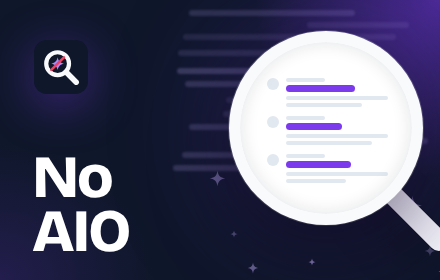
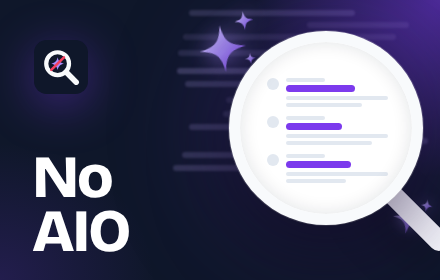
Promo tiles: destellos genéricos de IA alrededor de la lupa
Claude-Session: https://claude.ai/code/session_014NuHJHxpdZbSw9ow7VeDFp

diff --git a/scripts/render-store.py b/scripts/render-store.py
@@ -332,16 +332,38 @@ def lens(cx, cy, r, ring, handle_len, results, scale=1.0):
   <div style="position:absolute;inset:0;border-radius:50%;box-shadow:inset 0 0 {int(30*scale)}px rgba(15,23,42,.12)"></div>
 </div>"""
 
+def star_path(cx, cy, r):
+    k1, k2 = 0.12, 0.28
+    return (f"M{cx} {cy-r} C{cx+r*k1} {cy-r*k2} {cx+r*k2} {cy-r*k1} {cx+r} {cy} "
+            f"C{cx+r*k2} {cy+r*k1} {cx+r*k1} {cy+r*k2} {cx} {cy+r} "
+            f"C{cx-r*k1} {cy+r*k2} {cx-r*k2} {cy+r*k1} {cx-r} {cy} "
+            f"C{cx-r*k2} {cy-r*k1} {cx-r*k1} {cy-r*k2} {cx} {cy-r}Z")
+
+def ai_cluster(x, y, size, opacity=1.0, rot=0, uid="g"):
+    """Símbolo genérico de IA: un destello grande y dos chicos, con degradado y brillo."""
+    return f"""<svg class="abs" style="left:{x}px;top:{y}px;opacity:{opacity};transform:rotate({rot}deg);filter:drop-shadow(0 0 {size*0.18:.0f}px rgba(167,139,250,.75))"
+ width="{size}" height="{size}" viewBox="0 0 100 100">
+<defs><linearGradient id="{uid}" x1="0" y1="0" x2="1" y2="1"><stop offset="0" stop-color="#DDD6FE"/><stop offset=".55" stop-color="#A78BFA"/><stop offset="1" stop-color="#7C3AED"/></linearGradient></defs>
+<path d="{star_path(42, 58, 38)}" fill="url(#{uid})"/>
+<path d="{star_path(82, 18, 15)}" fill="url(#{uid})"/>
+<path d="{star_path(84, 80, 9)}" fill="url(#{uid})"/></svg>"""
+
 def small_tile_uni():
     return f"""<div class="abs glow" style="inset:0"></div>
-{noise(170, 440, 10, 270, 12, 10, seed=7, scale=.7)}
+{noise(170, 440, 10, 270, 12, 0, seed=7, scale=.7)}
+{ai_cluster(196, 12, 62, .9, -8, "s1")}
+{ai_cluster(392, 196, 40, .75, 10, "s2")}
 {lens(326, 128, 86, 11, 92, [(64, 70), (52, 80), (60, 56)], scale=.62)}
 <div class="abs" style="left:34px;top:40px;width:54px;height:54px;filter:drop-shadow(0 10px 24px rgba(124,58,237,.45))">{ICON}</div>
 <div class="abs word" style="left:32px;top:150px;font-size:60px">No<br>AIO</div>"""
 
 def marquee_uni():
     return f"""<div class="abs glow grid" style="inset:0"></div>
-{noise(600, 1400, 20, 540, 22, 22, seed=11)}
+{noise(600, 1400, 20, 540, 22, 0, seed=11)}
+{ai_cluster(690, 60, 120, .95, -10, "m1")}
+{ai_cluster(1230, 40, 96, .8, 8, "m2")}
+{ai_cluster(1240, 330, 70, .6, -6, "m3")}
+{ai_cluster(700, 380, 64, .5, 12, "m4")}
 {lens(1000, 262, 188, 22, 190, [(62, 72), (50, 84), (66, 58), (56, 76)])}
 <div class="abs" style="left:100px;top:150px;width:96px;height:96px;filter:drop-shadow(0 16px 36px rgba(124,58,237,.5))">{ICON}</div>
 <div class="abs word" style="left:94px;top:270px;font-size:150px">No AIO</div>"""
